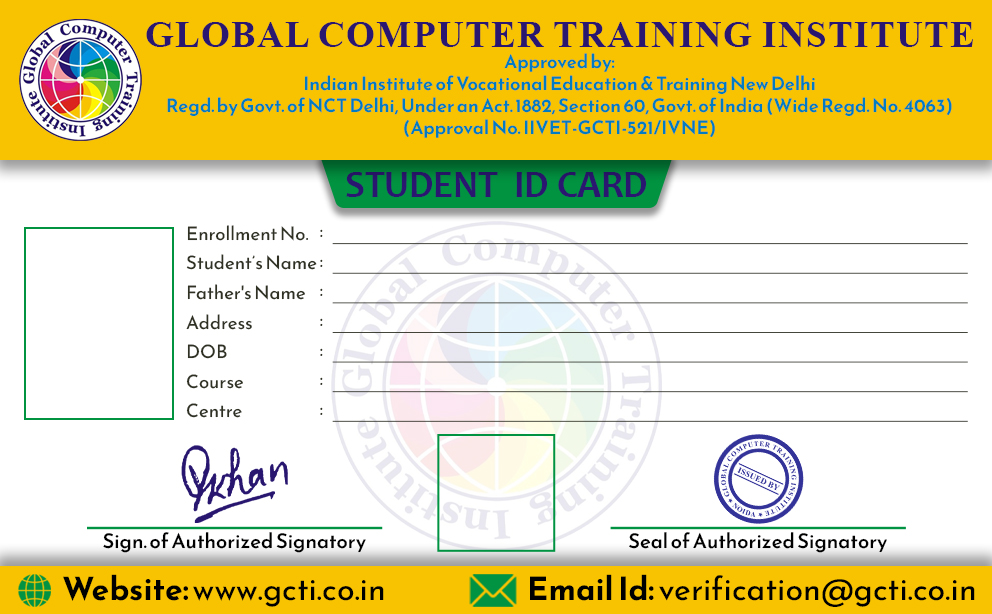
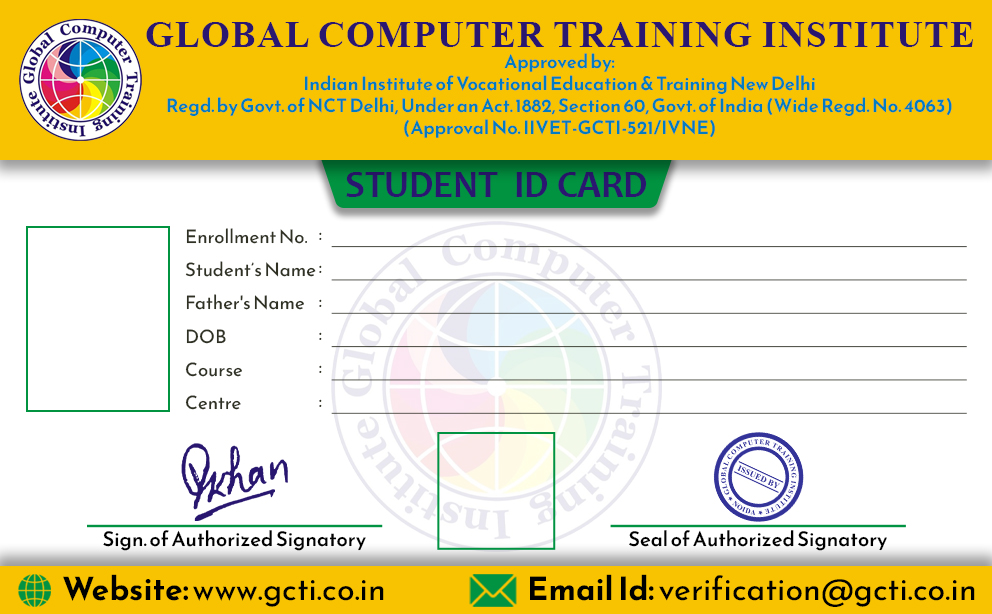
update gcti

diff --git a/assets/formats/gcti/id-card.php b/assets/formats/gcti/id-card.php
@@ -31,24 +31,24 @@
         }
         #photo {
             z-index: 999;
-            top: 16.34%;
-            left: 22px;
+            top: 16.3%;
+            left: 23px;
         }
     </style>
 </head>
 <body class="position-relative">
     <img id="back-image" class="position-relative" src="{document_path}/id-card.jpg">
     <div class="position-absolute" id="photo">
-        <img src="upload/{image}" style="width:115px;height:150px">
+        <img src="upload/{image}" style="width:111px;height:144.5px">
     </div>
-    <p class="position-absolute" style="top:14%;left:34%;">{roll_no}</p>
-    <p class="position-absolute" style="top:16.2%;left:34%">{student_name}</p>
-    <p class="position-absolute" style="top:18.3%;left:34%">{father_name}</p>
-    <p class="position-absolute test" style="top:20.4%;left:34%">{address}</p>
-    <p class="position-absolute " style="top:22.6%;left:34%">{dob}</p>
-    <p class="position-absolute test" style="top:24.7%;left:34%">{course_name}</p>
-    <p class="position-absolute test" style="top:26.7%;left:34%">{center_name}</p>
-    <div class="position-absolute" style="top:23.3rem;left:43.4%;">
+    <p class="position-absolute" style="top:14.5%;left:34%;">{roll_no}</p>
+    <p class="position-absolute" style="top:16.9%;left:34%">{student_name}</p>
+    <p class="position-absolute" style="top:19.2%;left:34%">{father_name}</p>
+    <!-- <p class="position-absolute test" style="top:20.4%;left:34%">{address}</p> -->
+    <p class="position-absolute " style="top:21.8%;left:34%">{dob}</p>
+    <p class="position-absolute test" style="top:24%;left:34%">{course_name}</p>
+    <p class="position-absolute test" style="top:26.5%;left:34%">{center_name}</p>
+    <div class="position-absolute" style="top:23.2rem;left:43.4%;">
         <img src="upload/images/id_card_{student_id}.png" style="width:105px" alt="">
     </div>
 </body>

diff --git a/assets/formats/gcti/marksheet.php b/assets/formats/gcti/marksheet.php
@@ -121,7 +121,7 @@
     <p class="position-absolute" style="top:27.7%;left:23%">{dob}</p>
     <p class="position-absolute" style="top:29.5%;left:23%">{course_name}</p>
     <p class="position-absolute text-capitlize" style="top:31.3%;left:23%">{marksheet_duration} {duration_type}</p>
-    <p class="position-absolute" style="top:33%;left:23%">{session}</p>
+    <p class="position-absolute" style="top:33.2%;left:23%">{session}</p>
 
 
     <div class="position-absolute " style="top:38%;left:5%;width:90%">
